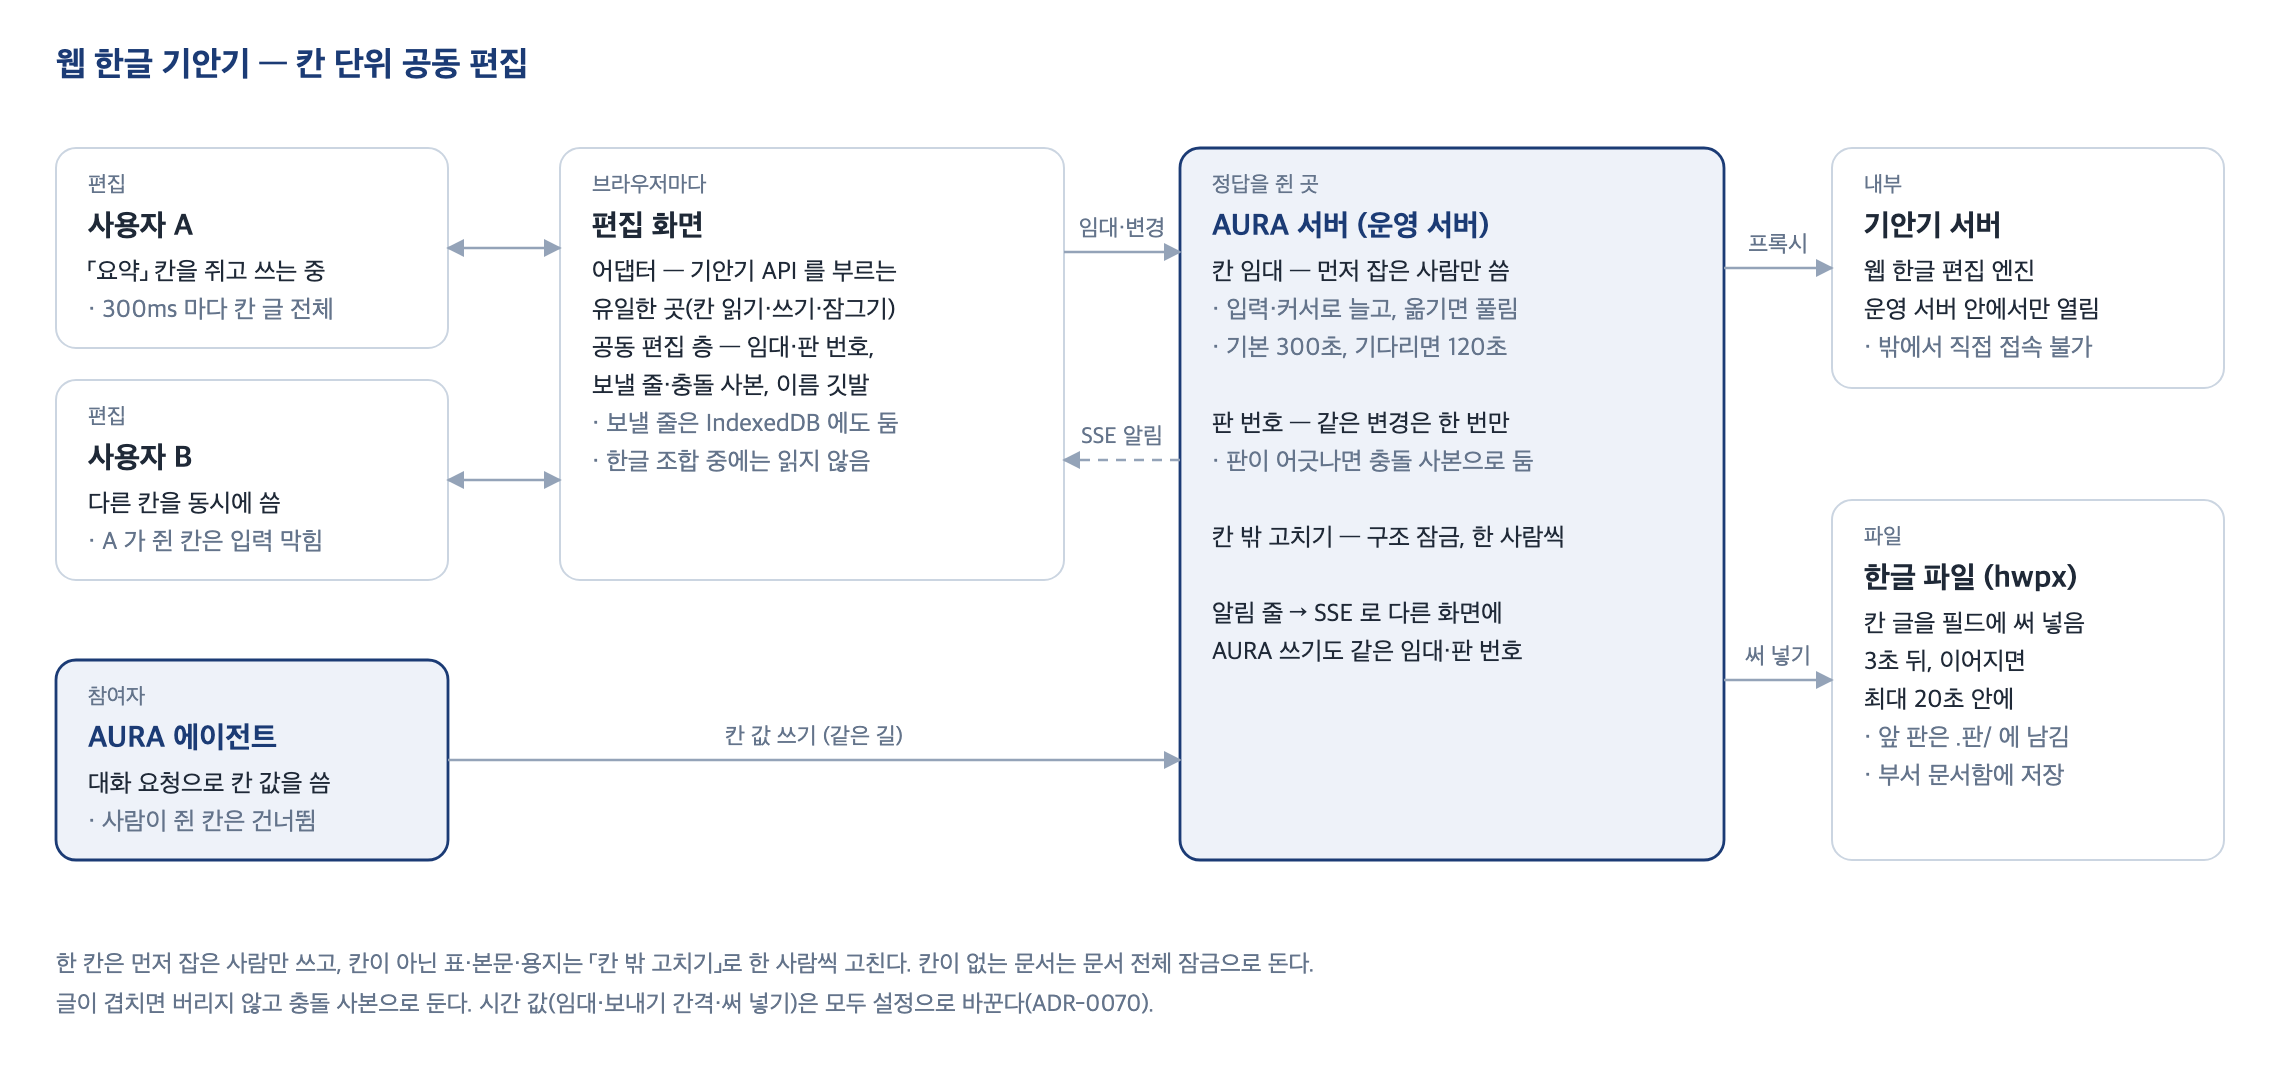
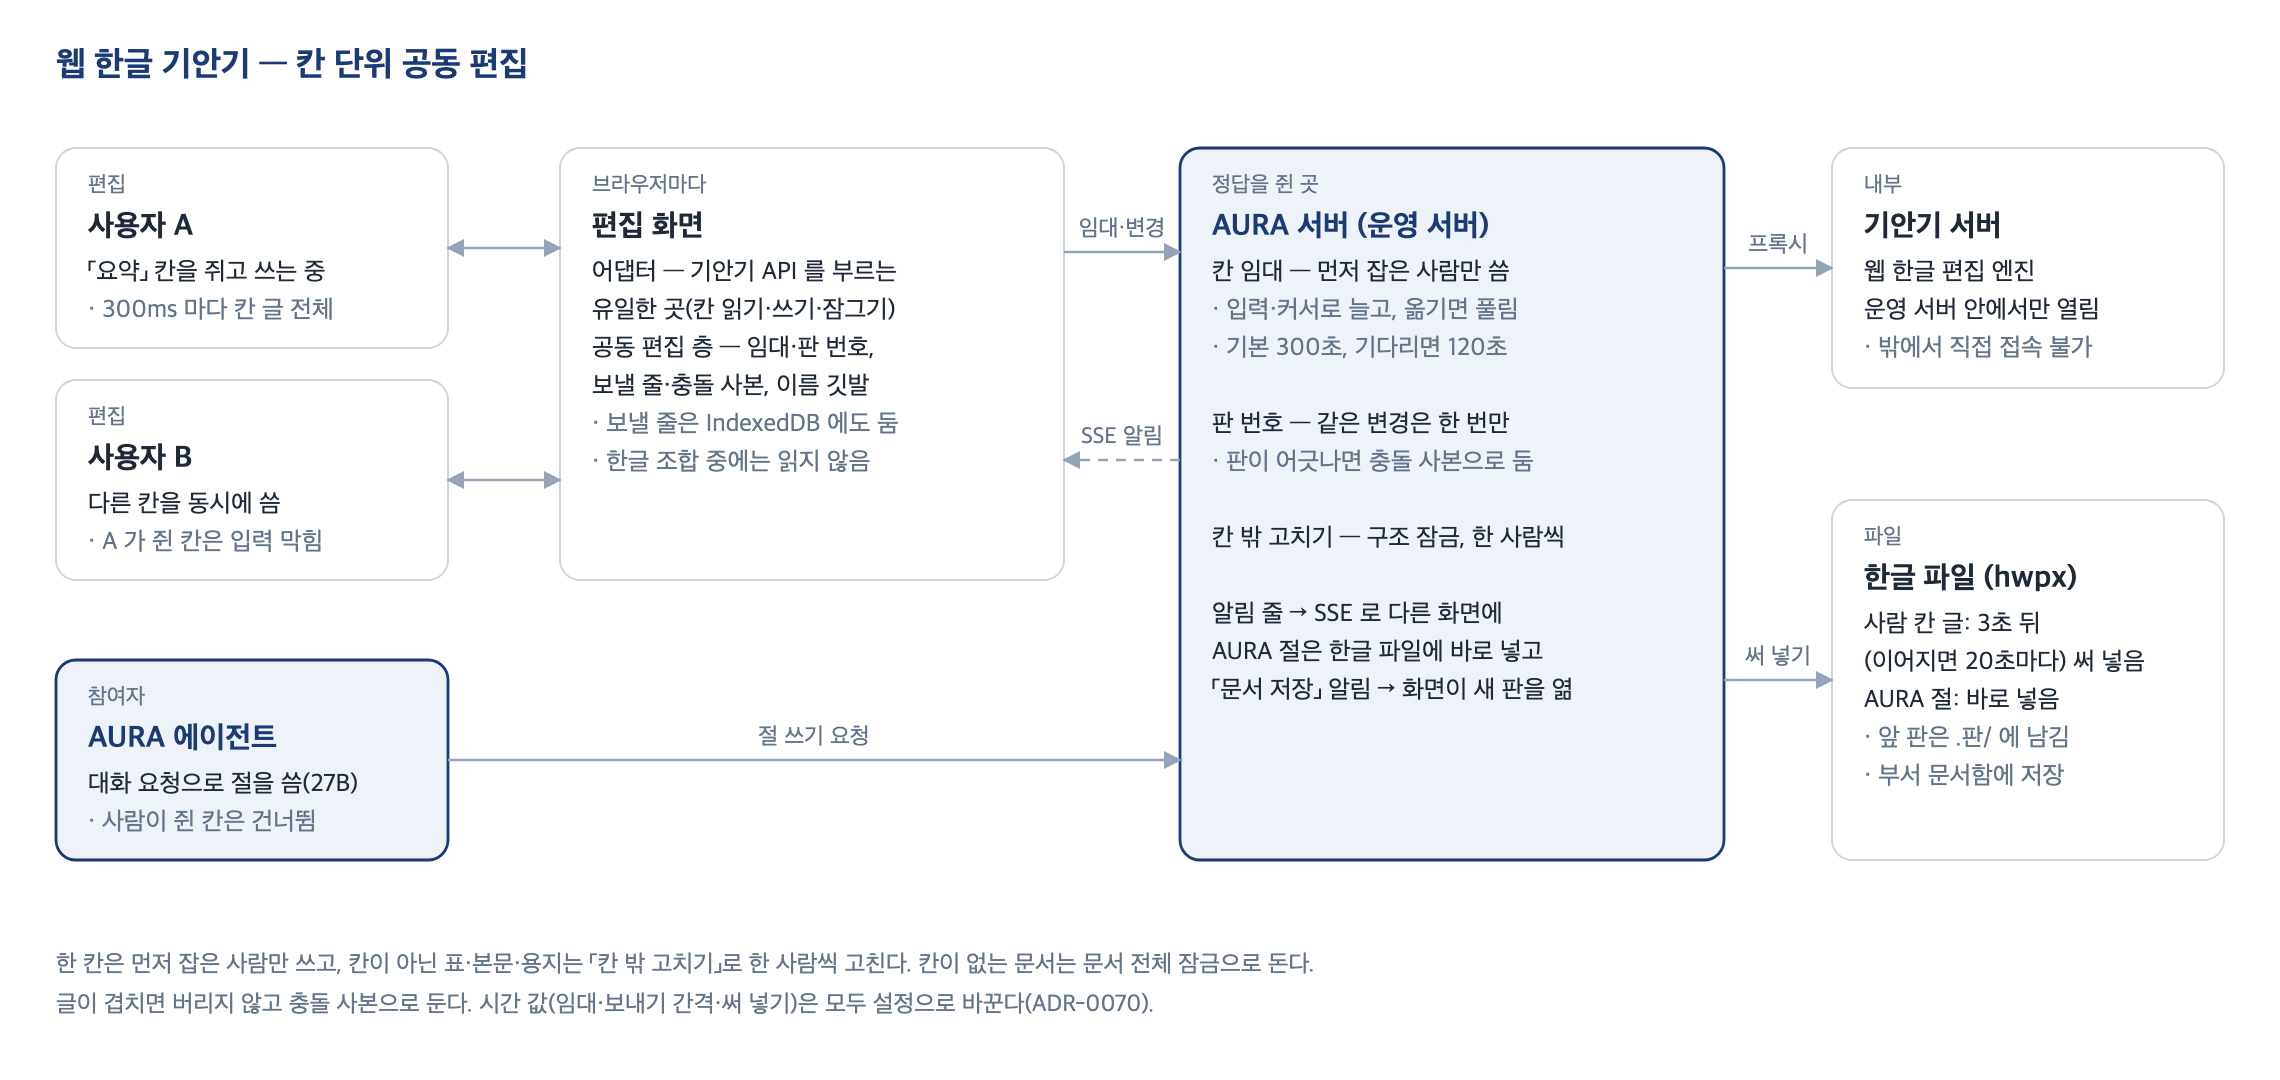
논문 그림(공동 편집 구성): AURA 는 「같은 길로 칸 값」 이 아니라 서버가 한글 파일에 절을 바로 넣고 새 판을 알림 — 실제 구조로

diff --git a/docs/images/diagrams/make_diagrams.py b/docs/images/diagrams/make_diagrams.py
@@ -114,7 +114,7 @@ def hwp():
     s.text(28, 38, "웹 한글 기안기 — 칸 단위 공동 편집", size=17, weight=700, color=NAVY)
     s.box(28, 74, 196, 100, "사용자 A", ["「요약」 칸을 쥐고 쓰는 중", "· 300ms 마다 칸 글 전체"], tag="편집")
     s.box(28, 190, 196, 100, "사용자 B", ["다른 칸을 동시에 씀", "· A 가 쥔 칸은 입력 막힘"], tag="편집")
-    s.box(28, 330, 196, 100, "AURA 에이전트", ["대화 요청으로 칸 값을 씀", "· 사람이 쥔 칸은 건너뜀"], tag="참여자", strong=True)
+    s.box(28, 330, 196, 100, "AURA 에이전트", ["대화 요청으로 절을 씀(27B)", "· 사람이 쥔 칸은 건너뜀"], tag="참여자", strong=True)
     s.box(280, 74, 252, 216, "편집 화면", [
         "어댑터 — 기안기 API 를 부르는",
         "유일한 곳(칸 읽기·쓰기·잠그기)",
@@ -134,15 +134,16 @@ def hwp():
         "칸 밖 고치기 — 구조 잠금, 한 사람씩",
         "",
         "알림 줄 → SSE 로 다른 화면에",
-        "AURA 쓰기도 같은 임대·판 번호",
+        "AURA 절은 한글 파일에 바로 넣고",
+        "「문서 저장」 알림 → 화면이 새 판을 엶",
     ], tag="정답을 쥔 곳", strong=True)
     s.box(916, 74, 196, 120, "기안기 서버", ["웹 한글 편집 엔진", "운영 서버 안에서만 열림", "· 밖에서 직접 접속 불가"], tag="내부")
-    s.box(916, 250, 196, 180, "한글 파일 (hwpx)", ["칸 글을 필드에 써 넣음", "3초 뒤, 이어지면", "최대 20초 안에", "· 앞 판은 .판/ 에 남김", "· 부서 문서함에 저장"], tag="파일")
+    s.box(916, 250, 196, 180, "한글 파일 (hwpx)", ["사람 칸 글: 3초 뒤", "(이어지면 20초마다) 써 넣음", "AURA 절: 바로 넣음", "· 앞 판은 .판/ 에 남김", "· 부서 문서함에 저장"], tag="파일")
     for y in (124, 240):
         s.arrow([(224, y), (280, y)], "", both=True)
     s.arrow([(532, 126), (590, 126)], "임대·변경", ly=118)
     s.arrow([(590, 230), (532, 230)], "SSE 알림", dashed=True, ly=222)
-    s.arrow([(224, 380), (590, 380)], "칸 값 쓰기 (같은 길)", ly=372)
+    s.arrow([(224, 380), (590, 380)], "절 쓰기 요청", ly=372)
     s.arrow([(862, 134), (916, 134)], "프록시", ly=126)
     s.arrow([(862, 340), (916, 340)], "써 넣기", ly=332)
     s.text(28, 486, "한 칸은 먼저 잡은 사람만 쓰고, 칸이 아닌 표·본문·용지는 「칸 밖 고치기」로 한 사람씩 고친다. 칸이 없는 문서는 문서 전체 잠금으로 돈다.",
